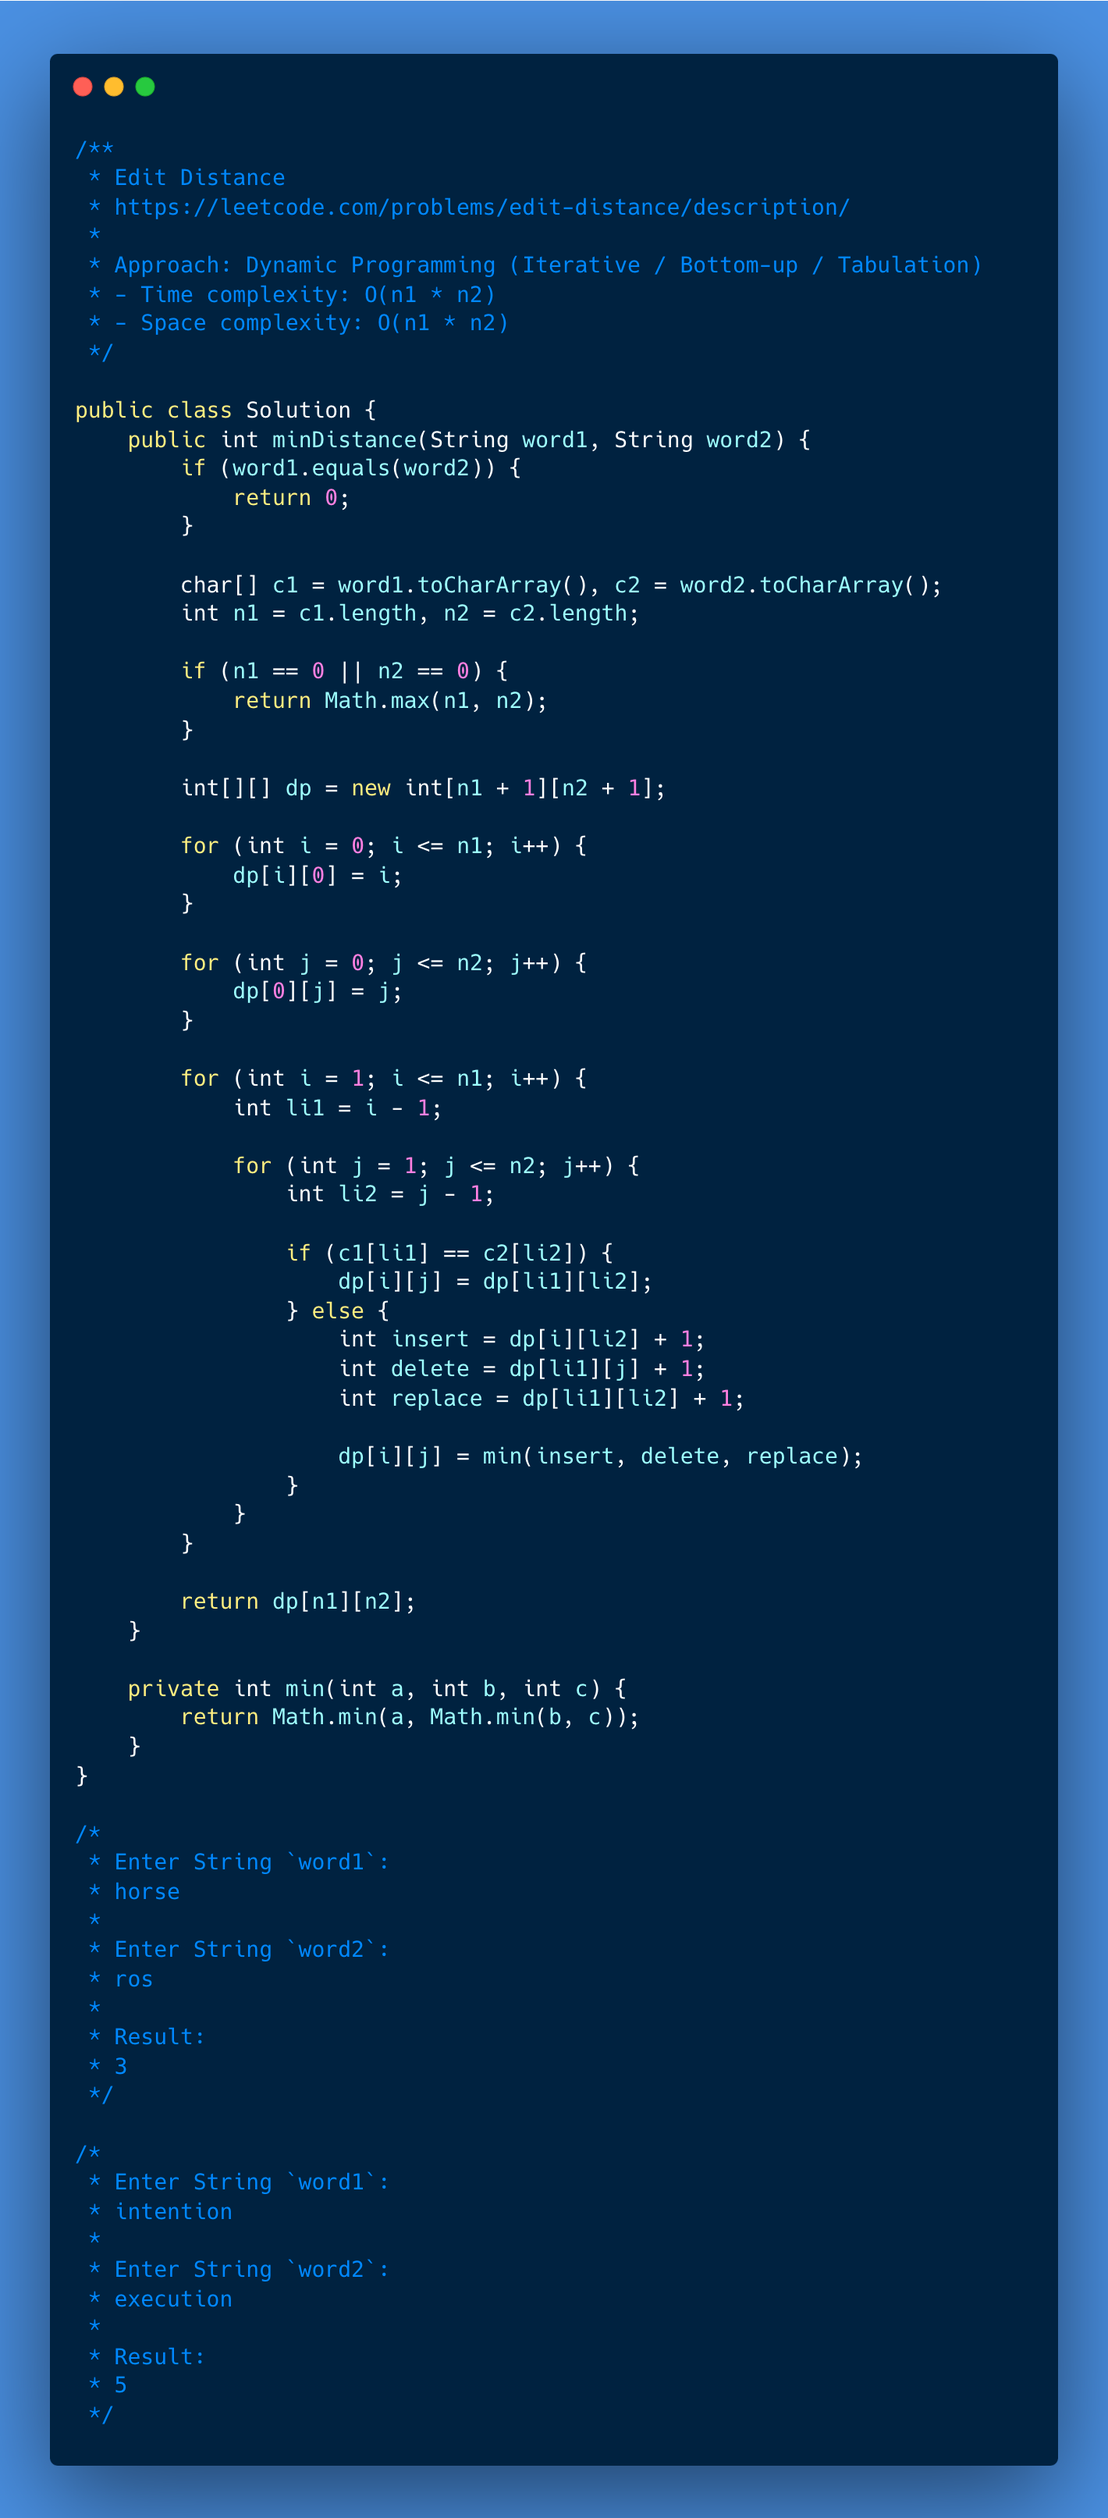
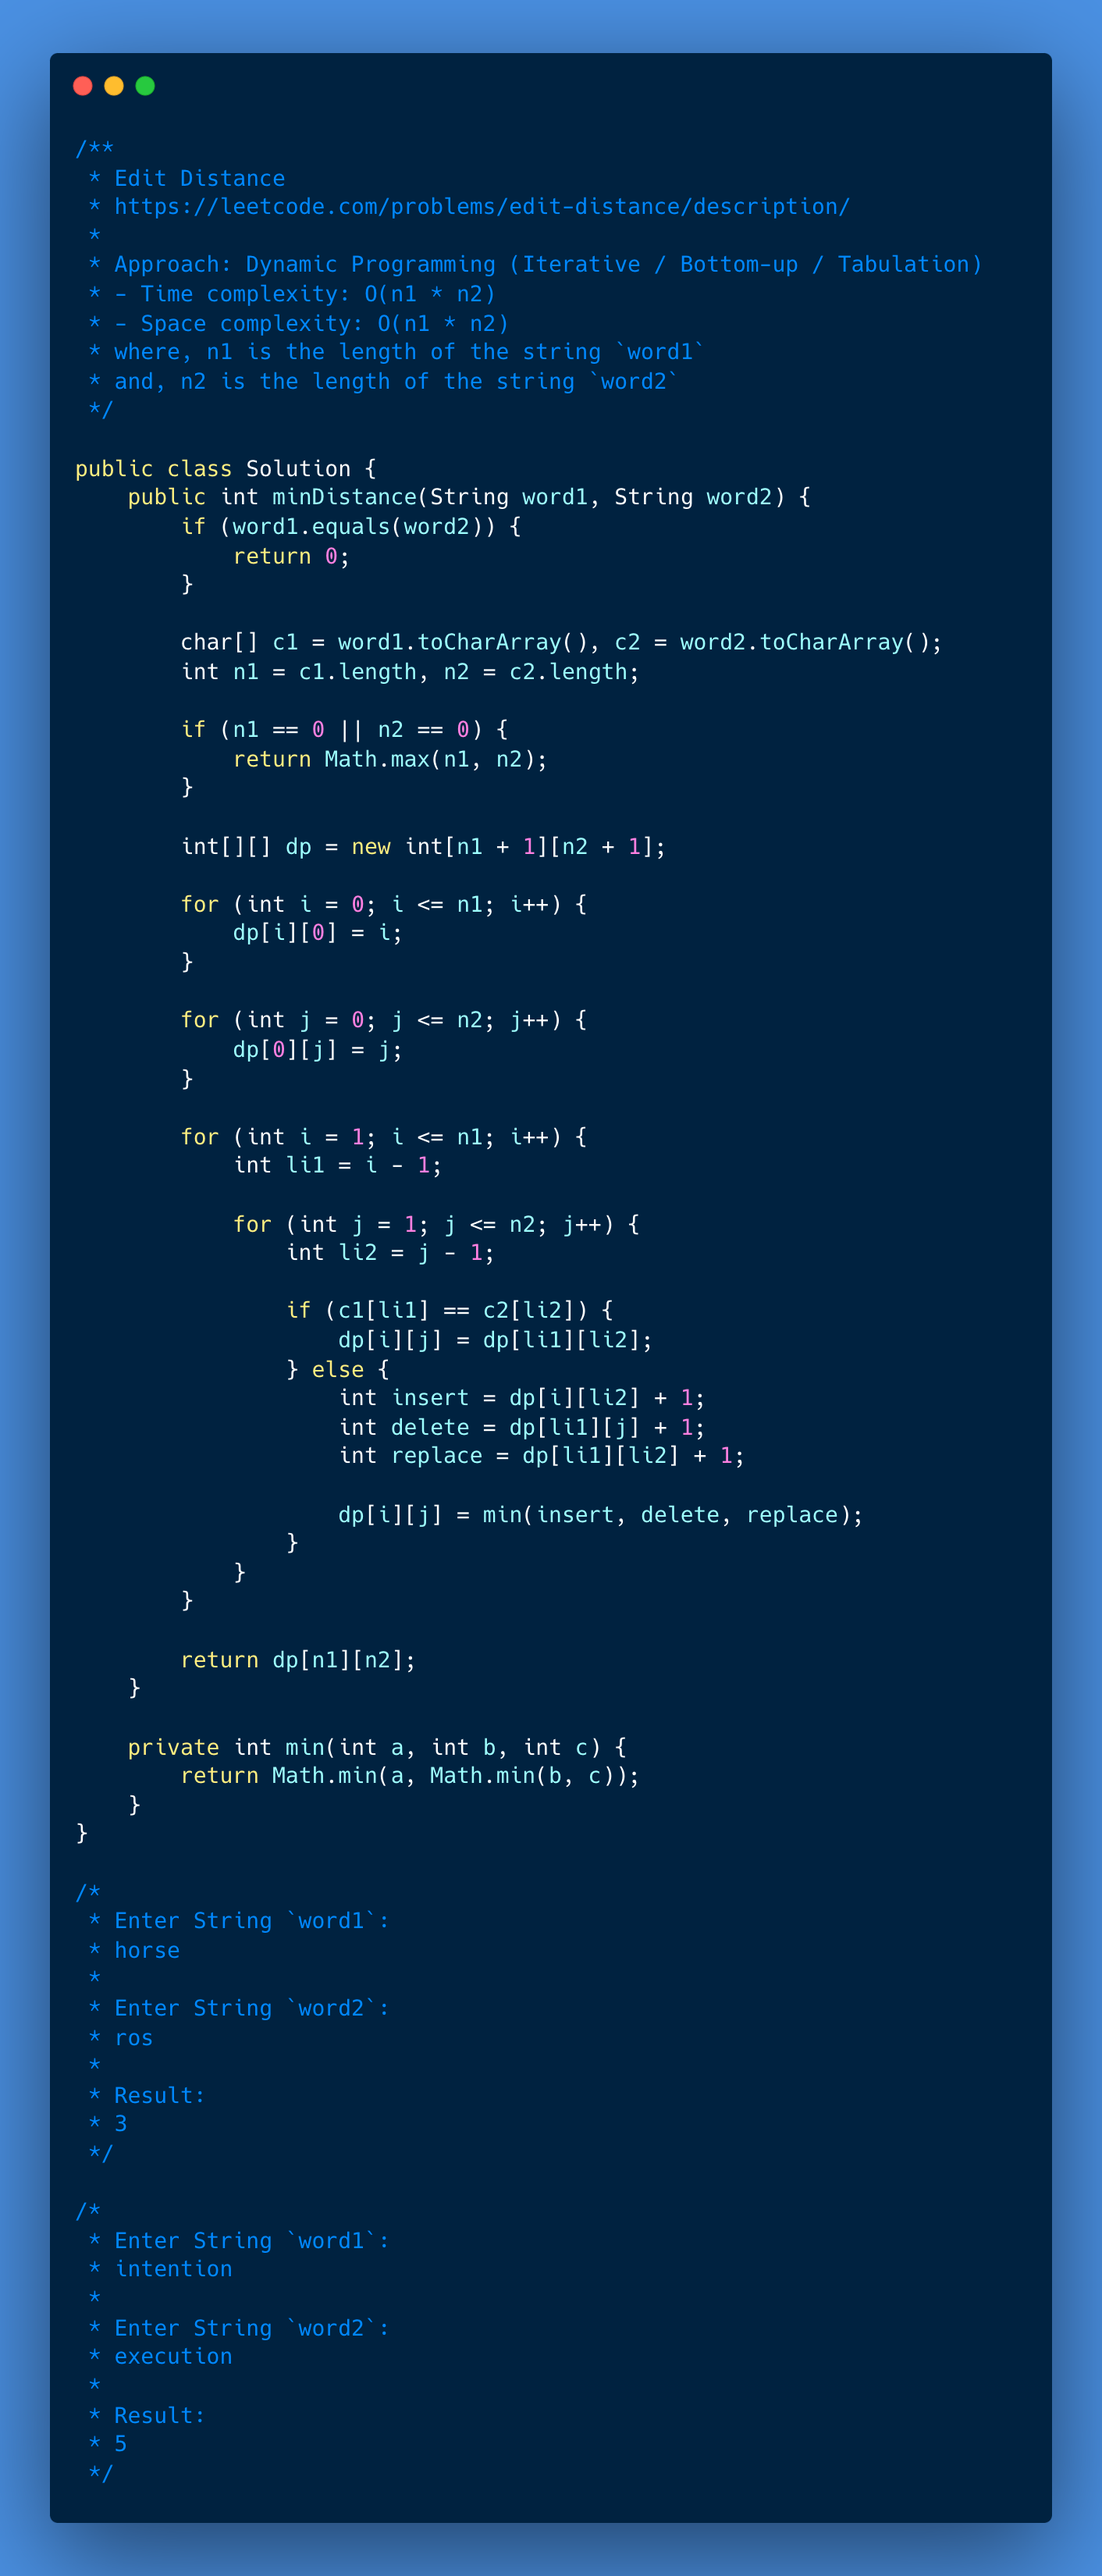
Edit distance code comment updates

diff --git a/244-edit-distance/001-solution/Solution.java b/244-edit-distance/001-solution/Solution.java
@@ -5,6 +5,8 @@
  * Approach: Dynamic Programming (Iterative / Bottom-up / Tabulation)
  * - Time complexity: O(n1 * n2)
  * - Space complexity: O(n1 * n2)
+ * where, n1 is the length of the string `word1`
+ * and, n2 is the length of the string `word2`
  */
 
 public class Solution {
